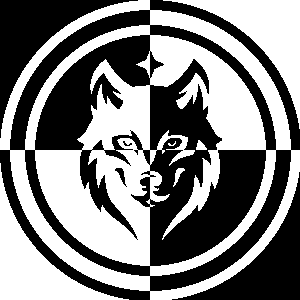
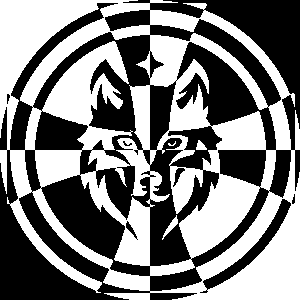
wip: interesting results!

diff --git a/patch.py b/patch.py
@@ -2,12 +2,7 @@ import sys
 from PIL import Image, ImageDraw
 
 im = Image.open(sys.argv[1]) # Can be many different formats.
-pix = im.load()
-print(im.size)  # Get the width and hight of the image for iterating over
-size = min(im.size[0], im.size[1])
-rect = Image.new("RGBA", (size, size), (255, 255, 255, 0))
-rect.paste(im,  (int(-(im.size[0] / 2 - size / 2)),(int(-(im.size[1] / 2 - size / 2)))))
-draw = ImageDraw.Draw(rect)
-draw.ellipse(((0,0),( rect.size[0], rect.size[0])),width=10, outline=(0, 0, 0))
-draw.ellipse(((25,25), (rect.size[0]-25, rect.size[0]-25)),width=10, outline=(0, 0, 0))
-rect.save(sys.argv[2])  # Save the modified pixels as .png
+draw = ImageDraw.Draw(im)
+draw.ellipse(((0,0),( im.size[0], im.size[0])),width=10, outline=(0, 0, 0))
+draw.ellipse(((25,25), (im.size[0]-25, im.size[0]-25)),width=10, outline=(0, 0, 0))
+im.save(sys.argv[2] if  len(sys.argv) == 3 else sys.argv[1])  # Save the modified pixels as .png

diff --git a/merge.py b/merge.py
@@ -1,0 +1,20 @@
+import sys
+from PIL import Image, ImageDraw
+
+im1 = Image.open(sys.argv[1])
+im2 = Image.open(sys.argv[2]) # Can be many different formats.*
+im2 = im2.resize(im1.size)
+pix1 = im1.load()
+pix2 = im2.load()
+for x in range(0, im1.size[0]):
+    for y in range(0, im1.size[1]):
+
+        if pix1[x,y][0] > 128 and pix2[x,y][0] > 128:
+            pix1[x,y] = (0,0,0,255)
+        elif  pix1[x,y][0] > 128:
+            pix1[x,y] = (255,255,255,255)
+        elif pix1[x,y][0] <= 128 and pix2[x,y][0] > 128:
+            pix1[x,y] = (255,255,255,255)
+        elif  pix1[x,y][0] <= 128:
+            pix1[x,y] = (0,0,0,255)
+im1.save(sys.argv[3])  # Save the modified pixels as .png

diff --git a/squarify.py b/squarify.py
@@ -1,0 +1,10 @@
+import sys
+from PIL import Image, ImageDraw
+
+im = Image.open(sys.argv[1]) # Can be many different formats.
+pix = im.load()
+print(im.size)  # Get the width and hight of the image for iterating over
+size = min(im.size[0], im.size[1])
+rect = Image.new("RGBA", (size, size), (255, 255, 255, 0))
+rect.paste(im,  (int(-(im.size[0] / 2 - size / 2)),(int(-(im.size[1] / 2 - size / 2)))))
+rect.save(sys.argv[2] if  len(sys.argv) == 3 else sys.argv[1])  # Save the modified pixels as .png

diff --git a/black_white.py b/black_white.py
@@ -29,4 +29,4 @@ for x in range(0,im.size[0]):
         else:
             col = (255,255,255,255)
         pix[x,y] = col
-im.save(sys.argv[2])  # Save the modified pixels as .png
+im.save(sys.argv[2] if  len(sys.argv) == 3 else sys.argv[1])  # Save the modified pixels as .png
